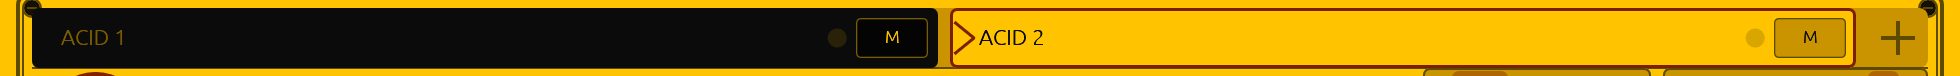
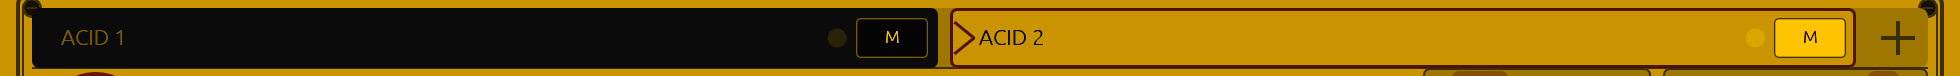
feat(theme): the amber face takes the quieter gold, and the keys the brighter one
The amber scheme was too bright to look at: a whole window of #FFC300. The face and the buttons' gold swap places, so the
subtle gold is the dominant surface.

It is not two constants swapped. The "button yellow" was `well`, one field doing two jobs — the recessed displays and the
unlit keys — so moving it under the face would have made the wells brighter than the face and broken "a recess is a hole in
the surface". So the palette gains `key_face`, the face of an unlit key: black keeps its old value byte for byte, and amber
gives it #FFC300, the gold the face used to wear. The amber face becomes #C99400 and the wells go darker still (#9E7600), so
recesses stay recesses.

Every dark ink was re-derived against the mid-tone face — the dim legend, the lit lamp, the accent, the learn cue — because
a brighter face had given them headroom that a mid one does not. All fifteen reading rules hold in both schemes; before this
was written, the values were checked with the palette's own luminance formula rather than by eye.

Two tests stated the old design and are restated, not deleted: the face is no longer the brightest surface (its keys are),
and the two families now exchange through `key_face`. A new rule pins a key's legend against the key's own face.

The guide's amber pictures are retaken so the book does not show last week's gold.

diff --git a/rust/crates/acid-app/src/ui/theme.rs b/rust/crates/acid-app/src/ui/theme.rs
@@ -32,6 +32,10 @@ pub struct Palette {
     pub panel: Color32,
     /// Knob bodies, raised key faces and the cards laid over the face.
     pub panel_raised: Color32,
+    /// The face of an *unlit* key — a transport key, an octave key, `RANDOM`. Its own role because in the amber scheme it
+    /// is the one surface that is *lighter* than the face, where the wells are darker: the face is the subtle gold and the
+    /// keys stand off it.
+    pub key_face: Color32,
     /// Ink for captions and pointers drawn on `panel_raised`: a key's label, a knob's pointer line.
     ///
     /// The face's ink will not do: it is chosen to read against the face, and a raised control is the *other* family's
@@ -66,8 +70,8 @@ pub struct Palette {
     /// The "you can pick this" colour while a learn is choosing.
     ///
     /// Not one of the panel's own lights, so it cannot be mistaken for a lit key — but it has to be *seen*, and on the
-    /// amber face a cyan would be a hue difference with no luminance step (1.07:1, invisible). Each scheme therefore
-    /// carries its own: cyan on the near-black face, a deep teal on the amber one.
+    /// amber face a cyan would be a hue difference with almost no luminance step (1.8:1, too weak for a cue). Each scheme
+    /// therefore carries its own: cyan on the near-black face, a deep teal on the gold one.
     pub learn_target: Color32,
 }
 
@@ -82,6 +86,7 @@ impl Palette {
 pub const BLACK: Palette = Palette {
     panel: Color32::from_rgb(0x0B, 0x0B, 0x0B),
     panel_raised: Color32::from_rgb(0x19, 0x19, 0x19),
+    key_face: Color32::from_rgb(0x04, 0x04, 0x04),
     raised_ink: Color32::from_rgb(0xFF, 0xC3, 0x00),
     well: Color32::from_rgb(0x04, 0x04, 0x04),
     silkscreen: Color32::from_rgb(0xFF, 0xC3, 0x00),
@@ -103,25 +108,27 @@ pub const BLACK: Palette = Palette {
 /// brightest shapes on the face, and every reading rule the panel depends on ("a well is a hole in the face") would break.
 /// What is exchanged is the two *families*: the face becomes the amber and the engraving becomes the near-black.
 pub const YELLOW: Palette = Palette {
-    panel: Color32::from_rgb(0xFF, 0xC3, 0x00),
+    panel: Color32::from_rgb(0xC9, 0x94, 0x00),
     panel_raised: Color32::from_rgb(0x14, 0x10, 0x08),
+    // The old face's gold, now the keys': the face is the quieter gold below, so what a hand rests on stands out of it.
+    key_face: Color32::from_rgb(0xFF, 0xC3, 0x00),
     raised_ink: Color32::from_rgb(0xFF, 0xE9, 0xB0),
-    well: Color32::from_rgb(0xC9, 0x94, 0x00),
+    well: Color32::from_rgb(0x9E, 0x76, 0x00),
     silkscreen: Color32::from_rgb(0x0B, 0x0B, 0x0B),
-    silkscreen_dim: Color32::from_rgb(0x5C, 0x4A, 0x00),
+    silkscreen_dim: Color32::from_rgb(0x3A, 0x2E, 0x00),
     // On a bright face nothing can be both brighter and contrasting, so the lamp rule inverts: a lit lamp is a *mark*
     // (dark enough to be seen on the amber) and an unlit one is invisible, exactly as black's `#2A2208` almost is on `#040404`.
-    led_on: Color32::from_rgb(0x86, 0x1F, 0x00),
+    led_on: Color32::from_rgb(0x62, 0x16, 0x00),
     led_off: Color32::from_rgb(0xD9, 0xA6, 0x00),
     // Deep enough to outshout the dim legend: UNSAVED wears this colour and SAVED wears `silkscreen_dim`, and the quieter
     // of the two must be the one that is not shouting.
-    led_accent: Color32::from_rgb(0x7A, 0x1F, 0x00),
+    led_accent: Color32::from_rgb(0x4E, 0x13, 0x00),
     lit_ink: Color32::from_rgb(0xFF, 0xC9, 0x7A),
     text: Color32::from_rgb(0x0B, 0x0B, 0x0B),
     white_key: Color32::from_rgb(0xE8, 0xE2, 0xD0),
     keycap_ink: Color32::from_rgb(0x0B, 0x0B, 0x0B),
     shade: Color32::from_black_alpha(90),
-    learn_target: Color32::from_rgb(0x0B, 0x7A, 0x85),
+    learn_target: Color32::from_rgb(0x0B, 0x4E, 0x55),
 };
 
 /// The palette a device's face is painted in.
@@ -167,14 +174,16 @@ mod tests {
     }
 
     #[test]
-    fn the_face_is_dark_in_one_scheme_and_bright_in_the_other() {
+    fn the_amber_face_is_a_quieter_gold_than_the_keys_on_it() {
         assert!(
             luminance(BLACK.panel) < 0.02,
             "the black scheme's face is the darkest thing on screen"
         );
+        // The amber face is the quieter of the two golds: bright enough to read as a lit machine, quiet enough that a whole
+        // window of it does not glare. The gold a hand rests on — the keys — is the brighter one.
         assert!(
-            luminance(YELLOW.panel) > 0.5,
-            "and the yellow scheme's is the brightest: that is the whole signal"
+            luminance(YELLOW.panel) > 0.3 && luminance(YELLOW.panel) < luminance(YELLOW.key_face),
+            "the amber face is a mid gold, and the keys stand out of it"
         );
     }
 
@@ -237,6 +246,12 @@ mod tests {
                 contrast(p.panel_raised, p.lit_ink) >= 4.5,
                 "{scheme:?}: a lit key's legend needs contrast against its own face"
             );
+            // A key's legend is drawn on the key's own face, which in the amber scheme is lighter than the face around
+            // it — so the pair to check is the key's, not the panel's.
+            assert!(
+                contrast(p.key_face, p.silkscreen) >= 4.5,
+                "{scheme:?}: a key's legend needs contrast against the key"
+            );
             // The keycap's paper is cream in both schemes, so its lettering is fixed and must be read on its own.
             assert!(
                 contrast(p.white_key, p.keycap_ink) >= 4.5,
@@ -266,9 +281,10 @@ mod tests {
 
     #[test]
     fn the_two_families_are_exchanged() {
-        // What was the face is now the engraving, and the other way round: the swap this round exists for.
+        // What was the face is now the engraving, and what was the engraving is now the gold a key is painted: the swap this
+        // scheme exists for, with the bright gold moved one surface out so the face itself is the quieter of the two.
         assert_eq!(YELLOW.silkscreen, BLACK.panel);
-        assert_eq!(YELLOW.panel, BLACK.silkscreen);
+        assert_eq!(YELLOW.key_face, BLACK.silkscreen);
         // Black's face is near-black, not pure black; so is Yellow's engraving.
         assert_ne!(BLACK.panel, Color32::BLACK);
     }

diff --git a/rust/crates/acid-app/src/ui/transport.rs b/rust/crates/acid-app/src/ui/transport.rs
@@ -43,7 +43,7 @@ pub fn transport_button(
 ) -> Response {
     let response = ui.interact(rect, ui.scope_id().with(id), egui::Sense::click());
     let scale = key_scale(rect);
-    let face = if lit { p.panel_raised } else { p.well };
+    let face = if lit { p.panel_raised } else { p.key_face };
     // A lit key is a raised face and a legend on it, so its legend is `lit_ink`: `led_accent` is ink for the *face*, and in
     // the amber scheme a colour dark enough to read on amber is too dark to read on a near-black key.
     let legend = if lit { p.lit_ink } else { p.silkscreen };

diff --git a/plans/phase 2/44-colour-and-clipboard.md b/plans/phase 2/44-colour-and-clipboard.md
@@ -83,21 +83,22 @@ families exchanged:
 
 | | Black (today) | Yellow | rule kept |
 |---|---|---|---|
-| `panel` | `#0B0B0B` | `#FFC300` | the largest surface |
-| `panel_raised` | `#191919` | `#141008` | reads as raised on the face; keys and knobs are dark on amber |
+| `panel` | `#0B0B0B` | `#C99400` | the largest surface, and the **quieter** of the two golds: a whole window of it must not glare |
+| `panel_raised` | `#191919` | `#141008` | reads as raised on the face; the keys that are engraved plates and the knobs are dark on amber |
+| `key_face` | `#040404` | `#FFC300` | the face of an **unlit key**. The brighter gold lives here, where a hand rests and where the area is small; the face took the quiet one |
 | `raised_ink` | `#FFC300` | `#FFE9B0` | legible on `panel_raised`: a key's caption, a knob's pointer. The face's ink will not do, because a raised control is the other family's surface in one scheme |
-| `well` | `#040404` | `#C99400` | reads as *recessed*: darker than the face in both, by the same perceived step |
+| `well` | `#040404` | `#9E7600` | reads as *recessed*: darker than the face in both, by the same perceived step |
 | `silkscreen` | `#FFC300` | `#0B0B0B` | maximum contrast against the face |
-| `silkscreen_dim` | `#7A5C00` | `#5C4A00` | a legend that is there but not shouting — on the **well** as well as the face, because a key's border, the knob's unlit arc and the strip's shelf are drawn on it (3.2:1 in both schemes) |
-| `led_on` | `#FFE066` | `#861F00` | a lit lamp is **seen**: contrast against the face (and the well its arc is drawn on), not luminance above it |
+| `silkscreen_dim` | `#7A5C00` | `#3A2E00` | a legend that is there but not shouting — on the **well** as well as the face, because a key's border, the knob's unlit arc and the strip's shelf are drawn on it (3.2:1 in both schemes) |
+| `led_on` | `#FFE066` | `#621600` | a lit lamp is **seen**: contrast against the face (and the well its arc is drawn on), not luminance above it |
 | `led_off` | `#2A2208` | `#D9A600` | an unlit lamp is **invisible**: nearly the face's own colour, as black's `#2A2208` nearly is on `#040404` |
-| `led_accent` | `#FF9500` | `#7A1F00` | ink for the **face**: the loud colour, and louder than `silkscreen_dim` on it, because UNSAVED wears it and SAVED wears the dim legend |
+| `led_accent` | `#FF9500` | `#4E1300` | ink for the **face**: the loud colour, and louder than `silkscreen_dim` on it, because UNSAVED wears it and SAVED wears the dim legend |
 | `lit_ink` | `#FF9500` | `#FFC97A` | ink for a **lit key's raised face**, which is a different reading: a colour dark enough to read on the amber face is too dark to read on a near-black key, so the accent's two roles are two values in the amber scheme |
 | `text` | `#F5F0E0` | `#0B0B0B` | contrasting the well |
 | `white_key` | `#E8E2D0` | `#E8E2D0` | cream stays cream: a keycap is a physical thing |
 | `keycap_ink` | `#0B0B0B` | `#0B0B0B` | legible on that cream, which does not change between schemes |
 | `shade` | `black alpha 90` | `black alpha 90` | darkens whatever is under it |
-| `learn_target` | `#3DE8F0` | `#0B7A85` | never one of the panel's own lights, *and* seen: cyan on the amber face is 1.07:1, a hue difference with no luminance step |
+| `learn_target` | `#3DE8F0` | `#0B4E55` | never one of the panel's own lights, *and* seen: cyan on a gold face is a hue difference with almost no luminance step (1.8:1) |
 
 On a bright face a lamp is a mark and an unlit lamp is invisible, so the rule a scheme keeps is contrast against the face,
 not luminance above it: nothing can be both brighter than `#FFC300` and contrasting against it (white is 1.57:1 on it,
@@ -462,3 +463,30 @@ The reviewer who ruled on this asked for it, and it is recorded as their decisio
 - **The greyed `+` at the rack's cap is 1.22:1 on amber** (black 1.30:1), because ruling 1 made `led_off` a colour that
   disappears into the face. It matches black's own intent — a dead key that says "no room" by being nearly unlit — and the
   picker's greyed rows are what actually explain the cap.
+
+### The amber face softened (after the review loop, at the user's request)
+
+A player found the amber scheme too bright to look at. The request: **swap the main yellow with the yellow the buttons use,
+so the subtle one is dominant.**
+
+It was not a swap of two values, because the "button yellow" was `well` — one field doing two jobs, the recessed displays
+*and* the unlit keys — so moving it under the face would have made the wells brighter than the face and broken "a recess is a
+hole in the face". The fix is one new role and a repaint:
+
+- **`Palette::key_face`** — the face of an *unlit* key. Black: `#040404` (its old `well`, so the black scheme is
+  byte-identical); amber: `#FFC300`, the gold the face used to be. `transport::transport_button` paints an unlit key with it.
+- The amber **face** is the quiet gold it came from, `#C99400`; the **wells** go a step darker again, `#9E7600`, so the
+  displays, knob recesses and the strip's shelf still read as recesses.
+- The inks were re-derived against a mid-tone face, because every dark pair tightened: `silkscreen_dim` `#5C4A00` →
+  `#3A2E00`, `led_on` `#861F00` → `#621600`, `led_accent` `#7A1F00` → `#4E1300` (it must still outshout the dim legend),
+  `learn_target` `#0B7A85` → `#0B4E55` (a cue needs 3:1 against the face it is drawn on). All fifteen rules hold in both
+  schemes — checked with `theme`'s own luminance formula before a line of Rust was touched, then by the suite.
+- Two tests stated the old design and were restated rather than deleted: `the_face_is_dark_in_one_scheme_and_bright_in_the_other`
+  is now `the_amber_face_is_a_quieter_gold_than_the_keys_on_it` (the face is no longer the brightest surface — its keys are),
+  and `the_two_families_are_exchanged` now runs through `key_face` (`YELLOW.key_face == BLACK.silkscreen`), which is where the
+  black scheme's legend gold went. A new rule pins a key's legend against the key's own face: `contrast(key_face, silkscreen)
+  >= 4.5`.
+
+Cost if wrong: the keys are now the loudest thing on the face, where before the face was; a hand that reads "bright = the
+surface" has to relearn one step. The black scheme is untouched, and the pictures in the guide's amber pages were retaken
+(plan 45's record) so the book does not show the old gold.

diff --git a/docs/guide/src/19-a-devices-card.md b/docs/guide/src/19-a-devices-card.md
@@ -23,9 +23,9 @@ Everything on it is about that one device, and every row acts on it immediately:
 
 ![The same two devices, the second one amber](img/two-devices.png)
 
-`YELLOW` turns that device's face amber — legends near-black, knobs and key faces dark — and the amber stays with the device,
-not with the window. Put one machine on amber and the next on black and the strip becomes a legend: each cell wears its own
-device's colours, while the panel wears the one you are on.
+`YELLOW` turns that device's face a soft gold — legends near-black, the keys a brighter gold that stands off it, the knobs
+dark — and the gold stays with the device, not with the window. Put one machine on gold and the next on black and the strip
+becomes a legend: each cell wears its own device's colours, while the panel wears the one you are on.
 
 The four cards stay black whatever the face does. A card is furniture laid over the instrument, not part of it.
 

diff --git a/docs/guide/src/img/README.md b/docs/guide/src/img/README.md
@@ -6,8 +6,9 @@ the build: the pictures are committed PNGs, and this note is what makes them rep
 
 ## The session they came from
 
-- **App:** the working tree at `5670f52`, the last commit that touched `rust/` before this round (the guide is at the
-  commit that added this file), on 2026-11-14, with `cargo build -p acid-app --bin takka-acid`.
+- **App:** the working tree at whichever commit last touched `rust/` — the same commit that carries this file — on
+  2026-11-15, with `cargo build -p acid-app --bin takka-acid`. No hash is quoted on purpose: it would rot the moment the
+  code moved, and `git log -1 -- rust/` answers it.
 - **Scratch data directory:** `TAKKA_ACID_DATA_DIR=/tmp/takka-guide-45`, emptied before the first launch, so the session
   is a first run — the Slow Acid demo, named "New song", unsaved, pattern `A1`, 118 BPM.
 - **Display:** offscreen, `Xvfb :82 -screen 0 2000x1400x24`, with

diff --git a/plans/phase 2/45-the-guide.md b/plans/phase 2/45-the-guide.md
@@ -156,3 +156,6 @@ image and every cross-reference resolves, and the new facts are present). The wo
 - **The capture is offscreen, and says so.** `img/README.md` records `Xvfb` + `WINIT_X11_SCALE_FACTOR=2` + `xdotool`
   instead of `grim` on a live output: same binary, same 980 × 670 face, rendered at 2×, and reproducible without taking over
   someone's desktop.
+- [x] **The amber palette softened after this round** (`two-devices`, `strip`, `clipboard-notice` retaken; `19-a-devices-card`'s
+  colour paragraph corrected, because the keys are now the *brighter* gold and its old wording said the key faces were dark).
+  Plan 44's record carries the change and why it needed a new palette role.
